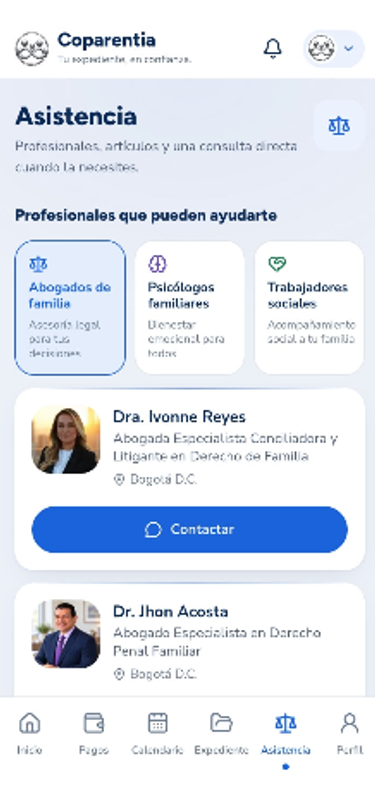
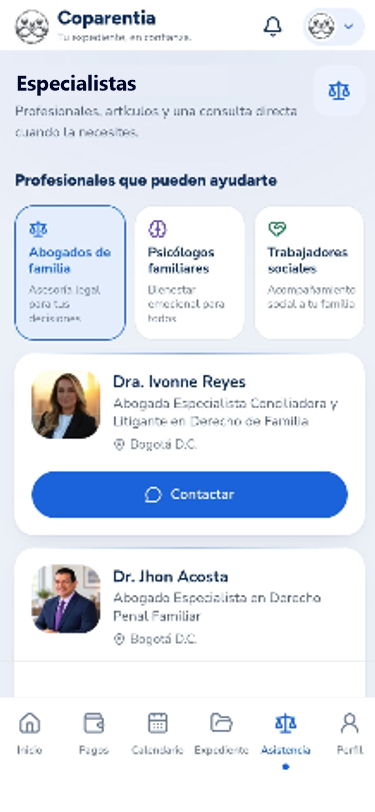
feat(landing): especialistas en su página, menú y pie con enlace, craft de la landing
- Menú: Planes · Especialistas · Entrar (Directorio de especialistas en pantallas grandes)
- Letra mínima de 13 px, línea animada entre los pasos del Sello, barra de la prueba gratis
- Carrusel de 5 pantallas con la captura "Especialistas" alineada; pie legal en 2 columnas

Changed region(s): [[0.0293, 0.0, 0.968, 0.8621], [0.88, 0.0924, 0.9387, 0.1847]]

diff --git a/components/landing/Oferta.tsx b/components/landing/Oferta.tsx
@@ -8,7 +8,7 @@
 // la card recomendada (el uso canónico de la técnica) · checkmarks custom.
 // El destino de los CTAs sigue al MODELO de 02C (checkout vs /onboarding).
 
-import { motion } from 'motion/react';
+import { motion, useReducedMotion } from 'motion/react';
 import { CheckCustom, CountUp, CtaButton, Hairline, Kicker, SectionShell, useReveal, VIEWPORT_ONCE } from './ui';
 import { MarkedCopy, warnCopy, warnRango } from './MarkedCopy';
 import { DIA_PRIMER_COBRO, FRASE_MONTO_HOTMART } from '@/lib/precios';
@@ -69,6 +69,29 @@ function Precio({ plan }: { plan: PlanOferta }) {
       {plan.descomposicionDia && (
         <p className="mt-1 text-[13px] text-[var(--text-secondary)] lg:text-[15px]">{plan.descomposicionDia}</p>
       )}
+    </div>
+  );
+}
+
+// Barra de la prueba gratis: se llena al aparecer. El dato es real (los días de prueba del plan);
+// con "reducir movimiento" aparece ya llena.
+function BarraPrueba({ dias }: { dias: number }) {
+  const reduce = useReducedMotion();
+  return (
+    <div className="mt-4">
+      <div className="h-2 overflow-hidden rounded-full bg-[color-mix(in_oklab,var(--accent)_14%,transparent)]">
+        <motion.div
+          className="h-full origin-left rounded-full bg-[var(--accent)]"
+          initial={reduce ? false : { scaleX: 0 }}
+          whileInView={{ scaleX: 1 }}
+          viewport={VIEWPORT_ONCE}
+          transition={{ duration: reduce ? 0 : 1.2, delay: reduce ? 0 : 0.3, ease: [0.16, 1, 0.3, 1] }}
+        />
+      </div>
+      <div className="mt-1 flex justify-between text-[13px] font-medium text-[var(--text-secondary)]">
+        <span>Hoy: sin cobro</span>
+        <span>{dias} días de prueba</span>
+      </div>
     </div>
   );
 }
@@ -144,7 +167,7 @@ export function Oferta({
           {/* ── ANUAL (recomendado): hairline 2px + fondo acento sutil + sombra tintada ── */}
           <motion.div variants={item} className="relative">
             {anual.badge && (
-              <span className="absolute -top-[10px] left-1/2 z-10 -translate-x-1/2 rounded-full border border-[color-mix(in_oklab,var(--accent)_25%,transparent)] bg-[var(--accent)] px-3 py-1 text-[11px] font-bold uppercase tracking-[0.06em] text-[var(--on-accent)] lg:text-[12px]">
+              <span className="absolute -top-[10px] left-1/2 z-10 -translate-x-1/2 rounded-full border border-[color-mix(in_oklab,var(--accent)_25%,transparent)] bg-[var(--accent)] whitespace-nowrap px-3 py-1 text-[13px] font-bold uppercase tracking-[0.06em] text-[var(--on-accent)] lg:text-[13px]">
                 {anual.badge}
               </span>
             )}
@@ -160,7 +183,6 @@ export function Oferta({
                       contexto que no compite. Antes eran 4 renglones de dinero al mismo nivel y el
                       ojo apurado no sabía cuál era el número que importa (defecto del revisor). */}
                   <p className="mt-1 text-[14px] font-semibold text-[var(--text-primary)] lg:text-[16px]">{anual.totalAnual}</p>
-                  <p className="mt-0.5 text-[12px] text-[var(--text-tertiary)] lg:text-[13px]">Se cobra al terminar la prueba.</p>
                   {/* El aviso del monto en pesos va en SU propia línea, un nivel más legible (13px, tinta secundaria):
                       antes iba pegado a la línea de arriba, en 12px terciario y a dos renglones. */}
                   <p className="mt-1 text-[13px] leading-[1.45] text-[var(--text-secondary)] lg:text-[14px]">{FRASE_MONTO_HOTMART}</p>
@@ -172,10 +194,12 @@ export function Oferta({
                     {anual.ctaLabel}
                   </CtaButton>
                   {trialDias !== undefined && (
-                    <p className="mt-2 text-center text-[13px] text-[var(--text-secondary)] lg:text-[15px]">
-                      Incluye {trialDias} días de prueba, sin cobro
-                      <span className="mt-0.5 block text-[12px] text-[var(--text-tertiary)] lg:text-[13px]">Registras tu medio de pago hoy; el primer cobro entra el día {DIA_PRIMER_COBRO}.</span>
-                    </p>
+                    <>
+                      <BarraPrueba dias={trialDias} />
+                      <p className="mt-2 text-center text-[14px] text-[var(--text-secondary)] lg:text-[15px]">
+                        Registras tu medio de pago hoy; el primer cobro entra el día {DIA_PRIMER_COBRO}.
+                      </p>
+                    </>
                   )}
                 </div>
               </div>
@@ -199,9 +223,8 @@ export function Oferta({
                 {mensual.ctaLabel}
               </CtaButton>
               {trialDias !== undefined && (
-                <p className="mt-2 text-center text-[13px] text-[var(--text-secondary)] lg:text-[15px]">
-                  Incluye {trialDias} días de prueba, sin cobro
-                  <span className="mt-0.5 block text-[12px] text-[var(--text-tertiary)] lg:text-[13px]">Registras tu medio de pago hoy; el primer cobro entra el día {DIA_PRIMER_COBRO}.</span>
+                <p className="mt-2 text-center text-[14px] text-[var(--text-secondary)] lg:text-[15px]">
+                  {trialDias} días de prueba, sin cobro. El primer cobro entra el día {DIA_PRIMER_COBRO}.
                 </p>
               )}
             </div>

diff --git a/app/page.tsx b/app/page.tsx
@@ -10,7 +10,7 @@
 // la app, el onboarding y el paywall siguen oscuros y no se tocan.
 
 import { Figtree, Nunito_Sans } from 'next/font/google';
-import { MessageCircleWarning, ReceiptText, ShieldAlert, AlarmClock, Wallet, FileQuestion, CalendarDays, Home as HomeIcon, ListChecks, CreditCard, Upload, Scale } from 'lucide-react';
+import { MessageCircleWarning, ReceiptText, ShieldAlert, AlarmClock, Wallet, FileQuestion, CalendarDays, Home as HomeIcon, ListChecks, Upload, Scale } from 'lucide-react';
 import { DIA_PRIMER_COBRO, PRECIOS, TRIAL_DIAS, usd } from '@/lib/precios';
 import { Hero } from '@/components/landing/Hero';
 import { Problema } from '@/components/landing/Problema';
@@ -51,7 +51,9 @@ export default function Home() {
           { label: 'Planes', href: '#oferta' },
           // El directorio salió de esta página (2026-10-14): lleva a su página propia. Mismo nombre que el pie
           // ("Especialistas y artículos") y que la frase de "Así se ve por dentro": un destino, un nombre.
-          { label: 'Especialistas', href: '/especialistas' },
+          // En computador grande dice "Directorio de especialistas" (igual que el título de esa página); en pantallas
+          // medianas y en celular, "Especialistas". Se muestra también en celular, junto a "Planes" y "Entrar".
+          { label: 'Especialistas', labelLargo: 'Directorio de especialistas', href: '/especialistas', visibleEnMovil: true },
         ]}
         // Promesa en dos tiempos (FICHA-AVATAR: dolor = caos de gastos + acusaciones; deseo = paz):
         // primero lo concreto que se resuelve, después lo que la persona quiere sentir.
@@ -62,7 +64,7 @@ export default function Home() {
         socialProof={
           <span className="block">
             {TRIAL_DIAS} días gratis · Garantía de 15 días
-            <span className="mt-0.5 block text-[12px] text-[var(--text-tertiary)] lg:text-[13px]">
+            <span className="mt-0.5 block text-[13px] text-[var(--text-tertiary)] lg:text-[14px]">
               Registras tu medio de pago hoy; el primer cobro entra el día {DIA_PRIMER_COBRO}.
             </span>
           </span>
@@ -74,7 +76,7 @@ export default function Home() {
         // "10 minutos" es el tiempo medido del onboarding + primer comprobante (guía "Tu primer
         // expediente en 10 minutos" del stack de valor) — no una cifra de marketing inventada.
         burbuja={{ titulo: 'Tu primer expediente', dato: 'Listo en 10 minutos' }}
-        pilares={['Gastos al día', 'Sello de Confianza en cada comprobante', 'Mente en calma']}
+        pilares={['Gastos al día', 'Sello de Confianza con fecha', 'Mente en calma']}
       />
 
       {/* 2. PROBLEMA */}
@@ -143,12 +145,9 @@ export default function Home() {
           { label: 'Tu expediente en PDF, en 1 toque', src: '/frame-expediente.png', nombrePantalla: 'Expediente', iconoPlaceholder: ListChecks },
           // Misma palabra que el menú, el pie y la frase de abajo (2026-10-14): "Especialistas". La "consulta
           // directa" es real DENTRO de la app (la pantalla Asistencia tiene el formulario de consulta).
-          { label: 'Especialistas, artículos y una consulta directa', src: '/frame-asistencia.png', nombrePantalla: 'Especialistas', iconoPlaceholder: Scale },
-          { label: 'Tu cuenta y tu suscripción', src: '/frame-perfil.png', nombrePantalla: 'Perfil', iconoPlaceholder: CreditCard },
+          { label: 'Especialistas, artículos y una consulta directa', src: '/frame-asistencia.png?v=3', nombrePantalla: 'Especialistas', iconoPlaceholder: Scale },
         ]}
         nota="Dentro de la app también tienes el calendario de eventos y el directorio de especialistas."
-        ctaLabel={CTA_LABEL}
-        ctaHref={CTA_HREF}
       />
 
       {/* 6. OFERTA */}
@@ -250,7 +249,7 @@ export default function Home() {
       {/* 10. FOOTER LEGAL */}
       <FooterLegal
         appName="Coparentia"
-        logo={<img src="/logo-horizontal.webp" alt="Coparentia" className="h-7 w-auto object-contain" />}
+        logo={<img src="/logo-horizontal.webp" alt="Coparentia" className="h-10 w-auto object-contain" />}
         marcaSoloLogo
         soporteEmail="soporte@coparentia.co"
         enlaces={[...ENLACES_LEGALES, ENLACE_ESPECIALISTAS]}

diff --git a/components/landing/Hero.tsx b/components/landing/Hero.tsx
@@ -23,6 +23,10 @@ import { MarkedCopy, truncarMarcado, warnCopy } from './MarkedCopy';
 export interface EnlaceNav {
   label: string;
   href: string;
+  /** Texto más largo que se muestra solo en pantallas grandes (lg): en las medianas se usa `label`. */
+  labelLargo?: string;
+  /** Además de "Planes", este enlace también se muestra en celular. */
+  visibleEnMovil?: boolean;
 }
 
 export interface HeroProps {
@@ -108,16 +112,25 @@ export function Hero({
             {logo ?? <span aria-hidden="true" className="size-6 rounded-[8px] bg-[var(--accent)]" />}
             {!marcaSoloLogo && appName}
           </a>
-          <nav aria-label="Secciones" className="flex items-center gap-1 md:gap-2">
+          <nav aria-label="Secciones" className="flex items-center gap-2">
             {navLinks.slice(0, 4).map((l) => (
               <a
                 key={l.href}
                 href={l.href}
-                className={`px-3 py-3 text-[14px] font-medium text-[var(--text-secondary)] hover:text-[var(--text-primary)] md:inline-block lg:text-[16px] ${
-                  l.href === enlacePlanes ? 'inline-flex h-11 items-center' : 'hidden'
+                // Todos los enlaces comparten la misma caja (44px, texto centrado) en computador: antes "Planes" usaba
+                // una caja distinta de las demás y su texto quedaba unos píxeles más abajo (2026-10-14).
+                className={`px-2 text-[14px] font-medium text-[var(--text-secondary)] hover:text-[var(--text-primary)] md:inline-flex md:h-11 md:items-center md:px-3 lg:text-[16px] ${
+                  l.href === enlacePlanes || l.visibleEnMovil ? 'inline-flex h-11 items-center' : 'hidden'
                 }`}
               >
-                {l.label}
+                {l.labelLargo ? (
+                  <>
+                    <span className="lg:hidden">{l.label}</span>
+                    <span className="hidden lg:inline">{l.labelLargo}</span>
+                  </>
+                ) : (
+                  l.label
+                )}
               </a>
             ))}
             {loginHref && (
@@ -203,7 +216,7 @@ export function Hero({
                 // medía 2.8:1 (revisor, clara r3) — mismo fallo ya corregido en el bloque de cierre.
                 style={{ background: 'linear-gradient(150deg, var(--accent), var(--accent-deep, var(--accent)))' }}
               >
-                <p className="text-[12px] font-semibold lg:text-[13px]">{burbuja.titulo}</p>
+                <p className="text-[13px] font-semibold lg:text-[14px]">{burbuja.titulo}</p>
                 <p className="mt-1 text-[22px] font-extrabold leading-[1.1] [font-family:var(--font-display)] md:text-[26px]">
                   {burbuja.dato}
                 </p>
@@ -223,7 +236,7 @@ export function Hero({
               <motion.li
                 variants={item}
                 key={p}
-                className="flex items-center gap-3 rounded-[var(--radius-button)] bg-[var(--surface)] px-5 py-4 text-[15px] font-semibold text-[var(--text-primary)] shadow-[var(--shadow-1)] lg:py-5 lg:text-[17px]"
+                className="flex items-center gap-3 rounded-[var(--radius-button)] border border-[color-mix(in_oklab,var(--text-tertiary)_22%,transparent)] bg-[var(--surface)] px-5 py-4 text-[15px] font-semibold text-[var(--text-primary)] lg:py-5 lg:text-[17px]"
               >
                 <CheckCustom />
                 {p}

diff --git a/components/landing/Solucion.tsx b/components/landing/Solucion.tsx
@@ -247,10 +247,22 @@ export function Solucion({
 
             <ol className="order-1 flex flex-col gap-6 lg:order-1">
               {pasos.map((p, i) => (
-                <motion.li key={i} variants={item} className="flex items-start gap-4">
+                <motion.li key={i} variants={item} className="relative flex items-start gap-4">
+                  {/* La línea que une cada paso con el siguiente se DIBUJA al aparecer (movimiento con dato real:
+                      es la secuencia 1-2-3 del Sello, la misma del video). Sin "reducir movimiento" ya viene trazada. */}
+                  {i < pasos.length - 1 && (
+                    <motion.span
+                      aria-hidden="true"
+                      className="absolute -bottom-6 left-[21px] top-11 w-[2px] origin-top rounded-full bg-[color-mix(in_oklab,var(--accent)_32%,transparent)]"
+                      initial={reduce ? false : { scaleY: 0 }}
+                      whileInView={{ scaleY: 1 }}
+                      viewport={VIEWPORT_ONCE}
+                      transition={{ duration: reduce ? 0 : 0.7, delay: reduce ? 0 : 0.4 + i * 0.5, ease: [0.16, 1, 0.3, 1] }}
+                    />
+                  )}
                   <span
                     aria-hidden="true"
-                    className="flex size-11 shrink-0 flex-col items-center justify-center rounded-[var(--radius-button)] border border-[color-mix(in_oklab,var(--accent)_22%,transparent)] bg-[var(--chip-bg)] text-[17px] font-bold tabular-nums text-[var(--accent-ink,var(--accent))] lg:text-[19px]"
+                    className="relative flex size-11 shrink-0 flex-col items-center justify-center rounded-[var(--radius-button)] border border-[color-mix(in_oklab,var(--accent)_22%,transparent)] bg-[var(--chip-bg)] text-[17px] font-bold tabular-nums text-[var(--accent-ink,var(--accent))] lg:text-[19px]"
                   >
                     {String(i + 1).padStart(2, '0')}
                   </span>
@@ -262,7 +274,7 @@ export function Solucion({
                           type="button"
                           onClick={() => irA(p.marca as string)}
                           aria-label={`Ver este paso en el video, en el segundo ${p.marca}`}
-                          className="-my-3 inline-flex min-h-11 items-center rounded-[var(--radius-button)] px-2 text-[12px] font-bold tabular-nums text-[var(--accent-ink,var(--accent))] underline decoration-[color-mix(in_oklab,var(--accent)_45%,transparent)] underline-offset-2 transition-colors hover:bg-[var(--chip-bg)] lg:text-[13px]"
+                          className="-my-3 inline-flex min-h-11 items-center rounded-[var(--radius-button)] px-2 text-[13px] font-bold tabular-nums text-[var(--accent-ink,var(--accent))] underline decoration-[color-mix(in_oklab,var(--accent)_45%,transparent)] underline-offset-2 transition-colors hover:bg-[var(--chip-bg)] lg:text-[14px]"
                         >
                           {p.marca}
                         </button>

diff --git a/components/landing/FooterLegal.tsx b/components/landing/FooterLegal.tsx
@@ -39,11 +39,11 @@ export function FooterLegal({ appName, logo, marcaSoloLogo = false, enlaces, sop
             {!marcaSoloLogo && appName}
           </p>
           <nav aria-label="Enlaces legales">
-            <ul className="flex flex-wrap items-center gap-x-1 gap-y-0">
+            <ul className="grid grid-cols-2 gap-x-4 sm:flex sm:flex-wrap sm:items-center sm:gap-x-1 sm:gap-y-0">
               {enlaces.map((e, i) => (
                 <li key={e.href} className="flex items-center">
                   {i > 0 && (
-                    <span aria-hidden="true" className="px-1 text-[var(--text-tertiary)]">
+                    <span aria-hidden="true" className="hidden px-1 text-[var(--text-tertiary)] sm:inline">
                       ·
                     </span>
                   )}
@@ -53,7 +53,7 @@ export function FooterLegal({ appName, logo, marcaSoloLogo = false, enlaces, sop
                     href={e.href}
                     target={e.href.startsWith('http') ? '_blank' : undefined}
                     rel={e.href.startsWith('http') ? 'noopener noreferrer' : undefined}
-                    className="px-1 py-3 text-[13px] text-[var(--text-tertiary)] underline-offset-4 hover:text-[var(--text-secondary)] hover:underline lg:text-[15px]"
+                    className="px-1 py-3 text-[14px] text-[var(--text-secondary)] underline-offset-4 hover:text-[var(--text-primary)] hover:underline lg:text-[15px]"
                   >
                     {e.label}
                   </a>
@@ -64,7 +64,7 @@ export function FooterLegal({ appName, logo, marcaSoloLogo = false, enlaces, sop
         </div>
 
         {/* Fila 2: copyright + soporte */}
-        <p className="mt-3 text-[13px] text-[var(--text-tertiary)] lg:text-[15px]">
+        <p className="mt-3 text-[14px] text-[var(--text-secondary)] lg:text-[15px]">
           © {year} {appName} ·{' '}
           <a href={`mailto:${soporteEmail}`} className="py-3 underline-offset-4 hover:underline">
             {soporteEmail}

diff --git a/components/landing/ui.tsx b/components/landing/ui.tsx
@@ -105,7 +105,7 @@ export function Accent({ children }: { children: ReactNode }) {
 /* ── <Kicker> — caps 12px/600 tracking +0.08em en acento (máx 1 por sección) ── */
 export function Kicker({ children }: { children: ReactNode }) {
   return (
-    <p className="mb-3 text-[12px] font-semibold uppercase tracking-[0.08em] text-[var(--accent-ink)] lg:text-[13px]">
+    <p className="mb-3 text-[13px] font-semibold uppercase tracking-[0.08em] text-[var(--accent-ink)] lg:text-[14px]">
       {children}
     </p>
   );
@@ -524,7 +524,7 @@ export function FotoLugar({
       }}
     >
       <Camera size={28} strokeWidth={1.6} aria-hidden="true" className="absolute left-1/2 top-[44%] -translate-x-1/2 -translate-y-1/2 text-white/70" />
-      <span className="relative mt-[12%] max-w-[70%] rounded-[var(--radius-button)] bg-black/30 px-2.5 py-1 text-center text-[11px] font-semibold leading-snug text-white/95 backdrop-blur-[2px] lg:text-[12px]">
+      <span className="relative mt-[12%] max-w-[70%] rounded-[var(--radius-button)] bg-black/30 px-2.5 py-1 text-center text-[13px] font-semibold leading-snug text-white/95 backdrop-blur-[2px] lg:text-[13px]">
         {descripcion}
       </span>
     </div>

diff --git a/components/landing/Agitacion.tsx b/components/landing/Agitacion.tsx
@@ -82,7 +82,7 @@ export function Agitacion({ titulo, frases, contraste, id }: AgitacionProps) {
                 </div>
               )}
               <div>
-                <p className="text-[12px] font-semibold uppercase tracking-[0.08em] text-[var(--text-tertiary)] lg:text-[13px]">
+                <p className="text-[13px] font-semibold uppercase tracking-[0.08em] text-[var(--text-tertiary)]">
                   {contraste.labelHoy}
                 </p>
                 <p className="mt-2 text-[15px] leading-snug text-[var(--text-primary)] lg:text-[17px]">{contraste.hoy}</p>
@@ -99,7 +99,7 @@ export function Agitacion({ titulo, frases, contraste, id }: AgitacionProps) {
                 </div>
               )}
               <div>
-                <p className="text-[12px] font-semibold uppercase tracking-[0.08em] text-[var(--text-tertiary)] lg:text-[13px]">
+                <p className="text-[13px] font-semibold uppercase tracking-[0.08em] text-[var(--text-tertiary)]">
                   {contraste.labelFuturo}
                 </p>
                 <p className="mt-2 text-[15px] leading-snug text-[var(--text-secondary)] lg:text-[17px]">{contraste.futuro}</p>

diff --git a/components/landing/AppPorDentro.tsx b/components/landing/AppPorDentro.tsx
@@ -34,8 +34,9 @@ export interface AppPorDentroProps {
   /** Una frase opcional bajo el carrusel (texto plano, sin botones ni enlaces). */
   nota?: string;
   /** CTA mid-page: mismas medidas y MISMO verbo del CTA héroe (19). */
-  ctaLabel: string;
-  ctaHref: string;
+  /** Opcional: sin ellos no se pinta el botón (la página ya tiene otros y la barra fija). */
+  ctaLabel?: string;
+  ctaHref?: string;
   id?: string;
 }
 
@@ -220,9 +221,11 @@ export function AppPorDentro({
         )}
 
         {/* CTA mid-page (reglas de CTA de 19): tras la prueba visual, cuando la confianza es alta */}
-        <motion.div variants={item} className="mt-10 flex justify-center">
-          <CtaButton href={ctaHref}>{ctaLabel}</CtaButton>
-        </motion.div>
+        {ctaLabel && ctaHref && (
+          <motion.div variants={item} className="mt-10 flex justify-center">
+            <CtaButton href={ctaHref}>{ctaLabel}</CtaButton>
+          </motion.div>
+        )}
       </motion.div>
     </SectionShell>
   );

diff --git a/components/landing/CtaFinal.tsx b/components/landing/CtaFinal.tsx
@@ -107,7 +107,7 @@ export function CtaFinal({
         {psMarked !== undefined && (
           <motion.p
             variants={item}
-            className="mt-10 max-w-[520px] border-l-2 border-[var(--cta-final-text-3,var(--accent))] pl-4 text-left text-[15px] italic leading-[1.6] text-[var(--cta-final-text-2,var(--text-secondary))] lg:text-[17px]"
+            className="mt-10 max-w-[520px] border-l-2 border-[var(--cta-final-text-3,var(--accent))] pl-4 text-left text-[16px] font-medium leading-[1.6] text-[var(--cta-final-text-2,var(--text-secondary))] lg:text-[17px]"
           >
             <MarkedCopy text={psMarked} />
           </motion.p>

diff --git a/components/landing/AnuncioAbogados.tsx b/components/landing/AnuncioAbogados.tsx
@@ -65,7 +65,7 @@ export function AnuncioAbogados({ contactoEmail, id = 'asistencia' }: AnuncioAbo
           <CtaButton href={`mailto:${contactoEmail}?subject=${encodeURIComponent('Quiero anunciarme en Coparentia')}`} variant="outline" fullMobile={false}>
             Quiero anunciarme en Coparentia
           </CtaButton>
-          <p className="text-[12px] text-[var(--text-tertiary)] lg:text-[13px]">Te respondemos en menos de 48 horas.</p>
+          <p className="text-[13px] text-[var(--text-tertiary)]">Te respondemos en menos de 48 horas.</p>
         </motion.div>
       </motion.div>
     </SectionShell>

diff --git a/app/(funnel)/especialistas/page.tsx b/app/(funnel)/especialistas/page.tsx
@@ -40,7 +40,7 @@ export default function Especialistas() {
 
       <FooterLegal
         appName="Coparentia"
-        logo={<img src="/logo-horizontal.webp" alt="Coparentia" className="h-7 w-auto object-contain" />}
+        logo={<img src="/logo-horizontal.webp" alt="Coparentia" className="h-10 w-auto object-contain" />}
         marcaSoloLogo
         soporteEmail="soporte@coparentia.co"
         enlaces={ENLACES_LEGALES}

diff --git a/docs/revisiones/landing-veredicto.md b/docs/revisiones/landing-veredicto.md
@@ -1,22 +1,19 @@
-# VEREDICTO revisor-visual — landing (tercera pasada, capturas por tramos t1-t7)
-Fecha: 2026-10-14 16:00
-Screenshot: docs/revisiones/landing-375.png
-Usabilidad: 36/40
+# VEREDICTO revisor-visual — landing (octava pasada, capturas v1-v3)
+Fecha: 2026-10-14 23:00
+Screenshot: docs/revisiones/landing-375-v1.png
+Usabilidad: 35/40
 Craft: 15/20
 Copy (si vende): 16/20
 Fidelidad (si hubo referencia): N-A
 Veredicto: NO LISTA
-Top defectos: 1) [Craft, movimiento; anterior al cambio, no resuelto] De las 7 animaciones base, queda sin aplicar el dibujado de anillos/barras: MiniRing existe en ui.tsx y Agitacion.tsx lo importa, pero app/page.tsx no le pasa `contraste`, asi que no se dibuja ningun anillo (no hay anillo ni barra que se dibuje en toda la pagina). CountUp ya esta aplicado en los dos precios (Oferta.tsx linea 65; verificado en ui.tsx: el HTML inicial trae el precio real, termina exacto, reduced-motion fijo), pero solo recorre el ultimo 30% (por ejemplo 6.20 a 7.42): es un efecto apenas perceptible, no un conteo heroe. Fix: un dato real dibujable (p. ej. el progreso 1-2-3 del Sello o el expediente de ejemplo) con barra/anillo whileInView, o el conteo desde un valor menor. Con eso movimiento sube a 4 y craft a 16. 2) [Craft, encaje/jerarquia; anterior al cambio] Letra de 10-12 px sigue en tarjetas de planes (t2/t3: "Se cobra al terminar la prueba", "Registras tu medio de pago hoy...", stack con tachado en 3 grises) y en el pie legal (t7: enlaces 11-12 px con puntos de separador de color alterno ambar/azul y "SIC" apretado). Lo nota cualquier usuario sin buscarlo, justo donde se decide la compra. Fix: notas a 13 px, un solo separador neutro en el pie, un dato heroe por tarjeta. 3) [Seccion "Que los acuerdos de crianza no se pierdan entre mensajes", t1; anterior al cambio] Tres parrafos de 4-6 lineas, tono legal generico ("actuacion judicial o extrajudicial") justo despues de las 6 preguntas que si agitan la escena. Falla el gate de texto por bloque (3-4 lineas) y frena la emocion (eje 3 de copy en 3). Fix: dos frases de 3 lineas max con la escena exacta de FICHA-AVATAR (el WhatsApp, "mala paga"). 4) [Gate cognitivo, menor; anterior al cambio] Carrusel con 6 puntos, 5 marcos, y "Asi se ve por dentro" con el mismo CTA repetido 5 veces en la pagina (hero, demo, carrusel, plan anual, cierre): no compite (mismo texto y accion) pero es mucha repeticion en 8276 px. Fix: opcional, quitar el CTA tras el carrusel.
+Top defectos: 1) [Craft/movimiento, toda la landing] Ya hay BarraPrueba (Oferta.tsx:78) y CountUp del precio (ui.tsx:27) con reduced-motion, pero siguen sin dibujarse los anillos (MiniRing sin datos), "Listo en 10 minutos" del hero es estático y no hay ningún momento de celebración/hito; la barra es una línea de 4 px en la tarjeta Anual que casi no se nota. Eje 4 queda en 3 y el craft en 15 (<16). Fix: contar "10" en el hero con CountUp y dar un remate al check del Sello en DemoSello (o engrosar la barra a 8 px con el dato "7 días" como número héroe). 2) [Oferta, v1 final y v2 arriba] Aún se repite la idea de prueba: resumen "Hoy no pagas nada", etiquetas "Hoy: sin cobro / 7 días de prueba" de la barra y la línea "7 días de prueba, sin cobro. El primer cobro entra el día 8" bajo cada plan; además el CTA Anual y el del Mensual dicen cosas distintas ("Crear mi expediente gratis" vs "Empezar mi plan mensual"), lo que compite. Fix: quitar la línea inferior del Mensual y el resumen superior, dejar solo la barra como aviso del Anual. 3) [Pie legal, v3 abajo] Los 6 enlaces siguen leyéndose como una fila corrida con viñetas que se parte en 3 líneas desparejas (no se ven las 2 columnas pedidas) y el logo sigue pequeño con "Coparentia" apenas legible; texto del pie 11-12 px aparente. Fix: grid de 2 columnas sin viñetas, logo h-10 real y revisar que la clase responsive se aplica a 375 px. 4) [Gate cognitivo, v1 "¿Te suena?"] 6 tarjetas de dolor + 3 párrafos legales largos + 4 CTAs + 5 FAQ: el bloque "acuerdos de crianza" (párrafos de 4-5 líneas) enfría la emoción tras el dolor y viola el límite de 3-4 líneas por bloque. Fix: recortar a 2 párrafos de 3 líneas o plegarlo en un acordeón. 5) [Hero y notas, v1/v2] Los chips de beneficios (Gastos al día, Sello de Confianza con fecha, Mente en calma) siguen pareciendo botones pill sin acción; notas bajo CTA y bajo planes en ~12 px de tono tenue. Fix: quitar el borde/sombra de los chips (solo check + texto) y subir las notas a 14 px.
 
-Detalle usabilidad: h1:3 h2:4 h3:4 h4:4 h5:4 h6:4 h7:3 h8:3 h9:3 h10:4
+Detalle usabilidad: h1:3 h2:4 h3:3 h4:3 h5:3 h6:4 h7:3 h8:3 h9:3 h10:3
 Detalle craft: jerarquia:3 profundidad:3 identidad:3 movimiento:3 encaje:3
 Detalle copy: idea:4 especificidad:3 emocion:3 oferta:3 accion:3
 
-## Verificacion de los cambios A, B, C
-A) Marco 5 del carrusel: RESUELTO. app/page.tsx linea 146: etiqueta "Especialistas, artículos y una consulta directa", nombrePantalla "Especialistas"; menu (linea 54), pie (enlaces-legales.ts, "Especialistas y artículos") y frase bajo el carrusel (t4) coinciden. La "consulta directa" se declara real dentro de la app (pantalla Asistencia con formulario); no pude verificarlo en la imagen, se acepta como declarado. Usabilidad h4 sube de 3 a 4.
-B) CountUp en precios: RESUELTO en lo funcional y verificado en codigo (dependencia estable `tieneNumero`, estado inicial con precio real, onComplete fija el valor exacto, reduced-motion sin animar). Mejora de movimiento reconocida pero parcial (ver defecto 1).
-C) Fuera de alcance por decision del dueno: MiniRing, agitacion, tamanos de letra. Los tres siguen vivos y son ANTERIORES al cambio (no los introdujo mover el directorio a /especialistas). Ninguno es regresion; pero los dos primeros son lo que impide los 16 puntos de craft.
-
-## Gate
-Usabilidad 36/40 pasa (justo en umbral). Copy 16/20 pasa sin margen, ningun eje <=2. Craft 15/20 NO pasa (umbral 16): falta un punto, que el eje movimiento recupera con un solo dato visual dibujado. Gate doble no cumplido: NO LISTA.
-Nota de captura: barra fija sobre el cierre y tramo t6 vacio son artefactos de la captura, no se penalizan (en codigo StickyCtaMobile se oculta frente a #cta-final y ante cualquier CTA en pantalla). FICHA-ARTE: variante clara (Figtree + Nunito Sans, azul), sin desvio visible; no coincide con "Capitulo" ni "Umbral".
+## Gates
+Gate cognitivo: fallan ~2-3 ítems (grupos de 6 tarjetas, bloque legal largo, chips que parecen interactivos); no llega a sobrecarga crítica. Usabilidad 35/40 queda bajo 36 (h8 por repetición residual en Oferta y densidad del bloque de dolor). Craft 15/20 queda bajo 16 (movimiento: sin celebración ni anillos, barra poco visible). Copy 16/20 pasa sin margen, ningún eje <=2. Gate doble no cumplido: NO LISTA.
+Mejoras reconocidas vs 7.ª: aviso de prueba reducido de 3 a una línea por plan en las tarjetas, BarraPrueba con dato real y reduced-motion, CountUp en el precio, PS del cierre legible sin cursiva, sin desborde (scrollWidth 375).
+Sin verificar a fondo: heurísticas 3/7 (StickyCtaMobile no visible en estático; existe en ui.tsx con whileTap y reduced-motion, no auditada línea a línea). CTA héroe: whileTap 0.97 en CtaButton verificado en código.
+FICHA-ARTE (variante clara Figtree + Nunito Sans, azul #2F6FDC, radios 22px/999px, blobs orgánicos): sin desvío evidente; no coincide con los ejemplos vetados.
